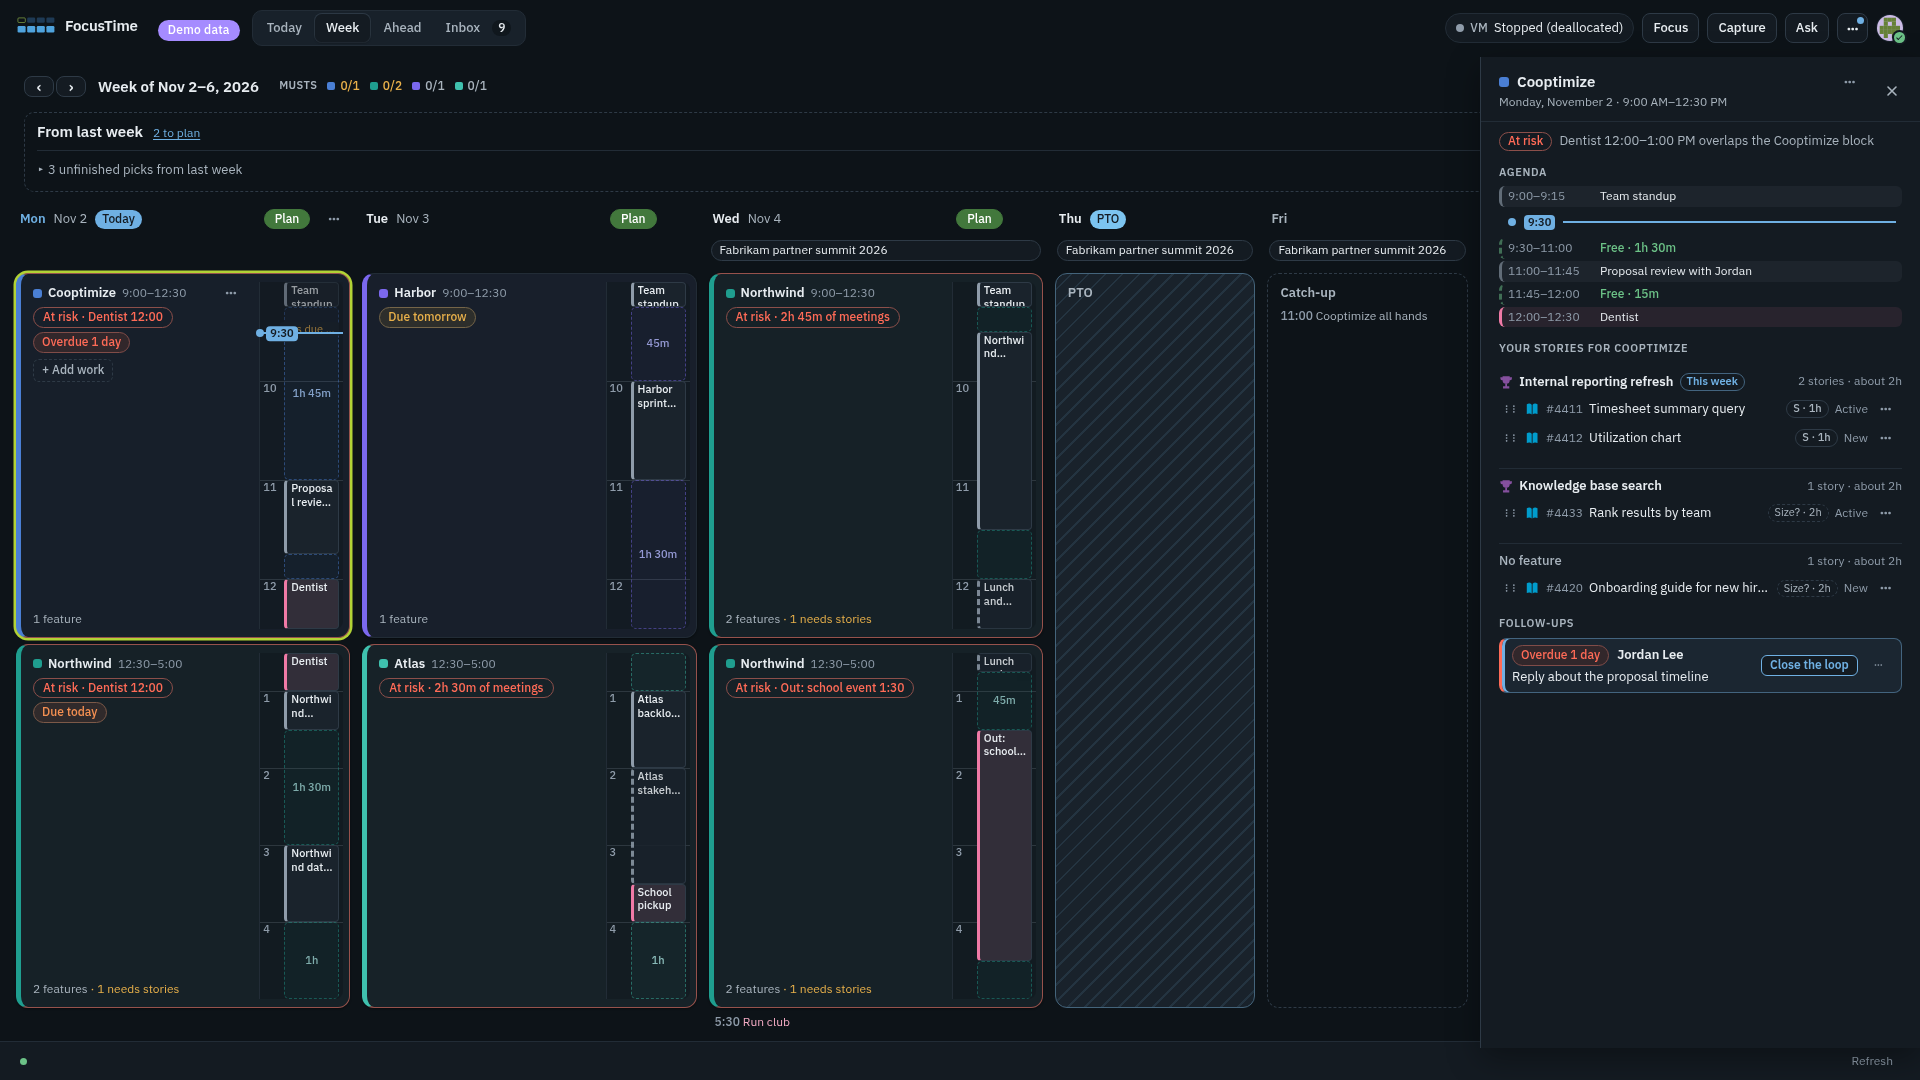
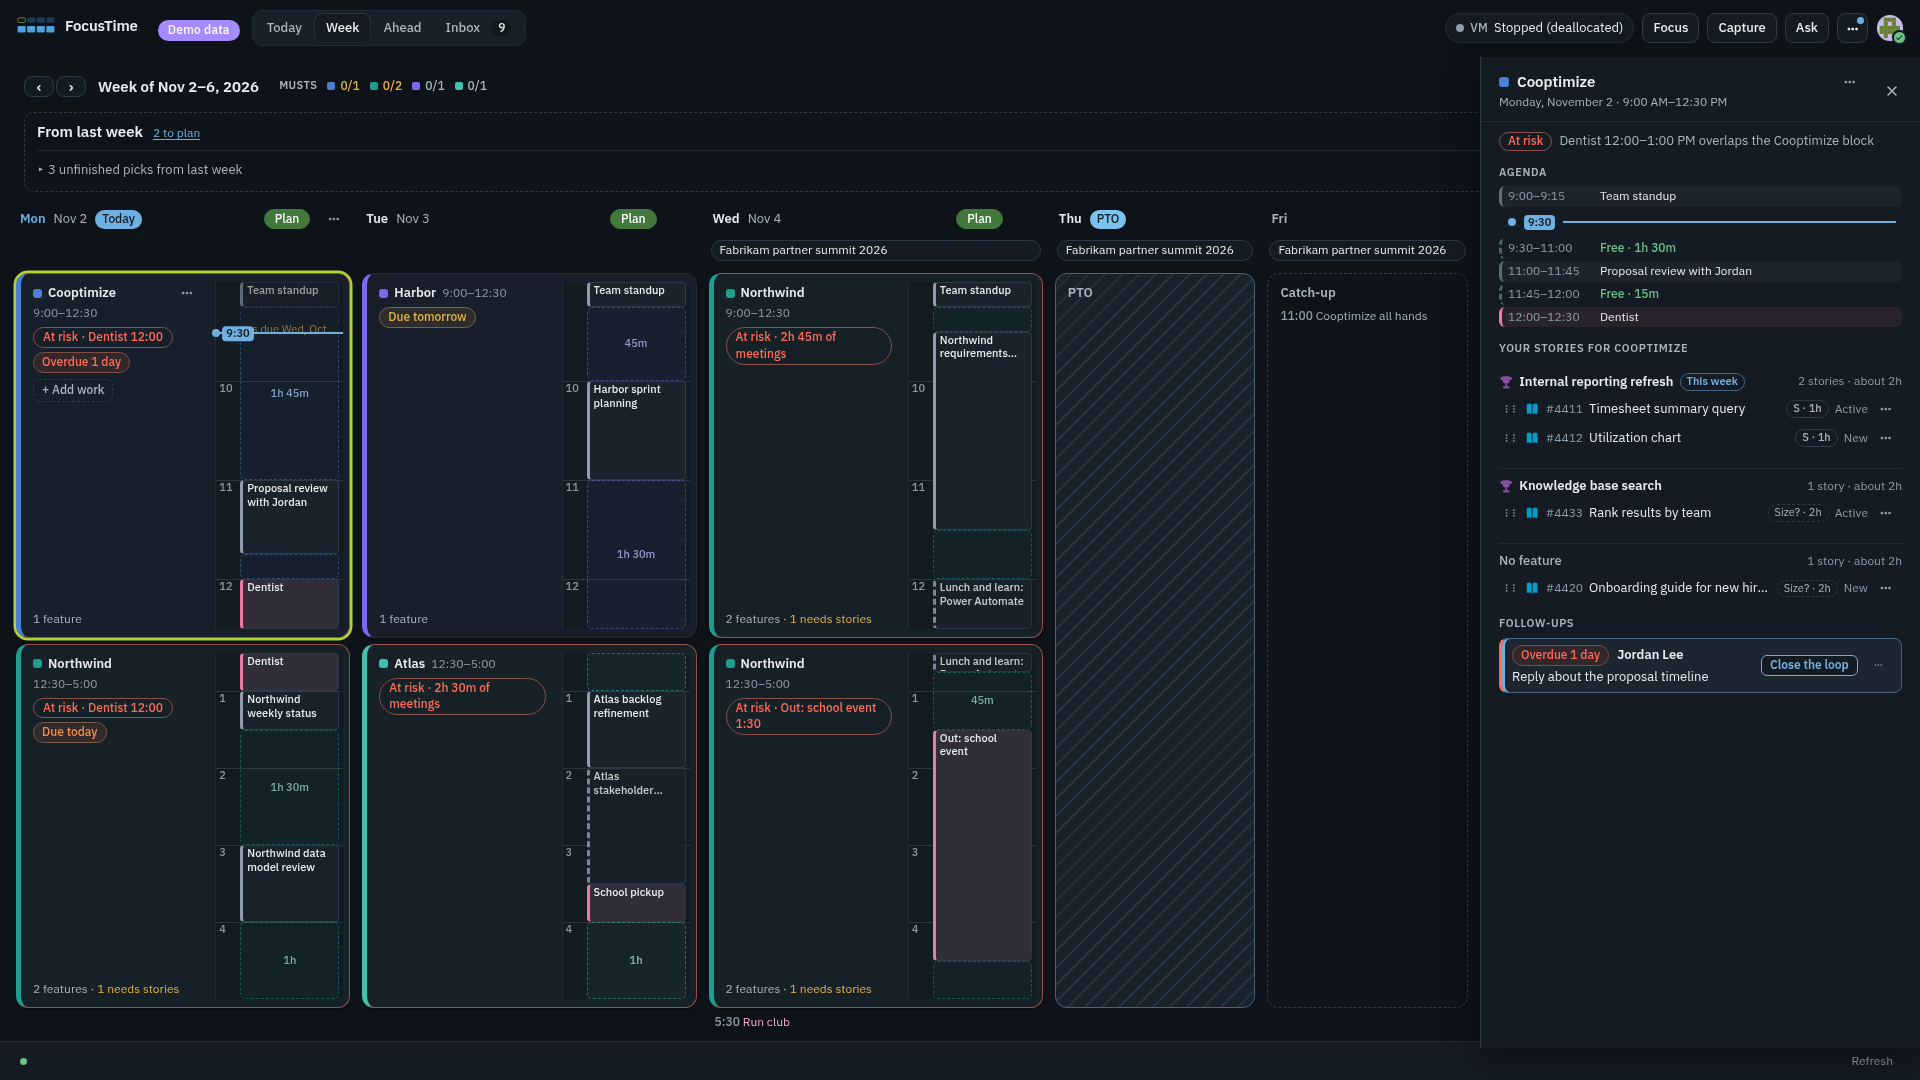
WK-1: Rail from 320 px, so 1440 with no panel keeps the rail with titles; the rail's width from the measured column; 1440 (and every rail) after screenshots
Claude-Session: https://claude.ai/code/session_01MZF2GqHMftfpmcAnk5DoqP

diff --git a/ui/weekfit.ts b/ui/weekfit.ts
@@ -1,8 +1,8 @@
 // WK-1: how Week's Board fits the space it has. One tier for the whole grid, chosen from the real width of a Mon–Thu
 // column (the grid's content box, after the detail panel's space and the gaps) divided by the text scale, so Larger
 // text reaches the smaller tiers sooner. Each card renders exactly its tier's element:
-// - rail   (≥ 330): the time rail with titles (186 px, 140 on a narrower card)
-// - ruler  (250 to 330): a slim ruler, hour ticks and event bars, no titles
+// - rail   (≥ 320): the time rail with titles (186 px, 140 on a narrower card)
+// - ruler  (250 to 320): a slim ruler, hour ticks and event bars, no titles
 // - strip  (170 to 250): no rail; a thin day strip under the card header (busy, free, the now tick)
 // - mini   (130 to 170): the strip, the header stacked, the status pill without its reason
 // When even mini doesn't fit with all five days open, the week folds: the selected day and its neighbours stay open
@@ -11,7 +11,7 @@
 export type Tier = "rail" | "ruler" | "strip" | "mini";
 
 /** The narrowest Mon–Thu column, in CSS px at Default text, for each tier. */
-export const TIER_MIN: Readonly<Record<Tier, number>> = { rail: 330, ruler: 250, strip: 170, mini: 130 };
+export const TIER_MIN: Readonly<Record<Tier, number>> = { rail: 320, ruler: 250, strip: 170, mini: 130 };
 
 /** A folded day's strip, in CSS px at Default text. */
 export const FOLD_PX = 44;
@@ -37,7 +37,11 @@ export type Fit = {
   col: number;
   /** grid-template-columns. */
   tracks: string;
+  /** The rail tier's rail width: what the column leaves after about 200 px of text (scaled), 140 to 186 px. */
+  railPx: number;
 };
+
+const railWidth = (col: number, scale: number) => Math.round(Math.min(186, Math.max(140, col - 200 * scale)));
 
 /**
  * @param contentPx the grid's content width (no padding)
@@ -52,7 +56,7 @@ export function weekFit({ contentPx, gapPx, scale = 1, shares, selected }: { con
   const all = free / Math.max(0.0001, sum(shares));
   const t = tierFor(all, scale);
   const track = (s: number) => `minmax(0, ${s}fr)`;
-  if (t !== "fold" || n <= 1) return { tier: t === "fold" ? "mini" : t, open: shares.map(() => true), col: all, tracks: shares.map(track).join(" ") };
+  if (t !== "fold" || n <= 1) return { tier: t === "fold" ? "mini" : t, open: shares.map(() => true), col: all, tracks: shares.map(track).join(" "), railPx: railWidth(all, scale) };
 
   // Fold: a window of FOLD_OPEN days around the selected one (kept inside the week), shrunk only while the open
   // columns are still under mini.
@@ -69,7 +73,7 @@ export function weekFit({ contentPx, gapPx, scale = 1, shares, selected }: { con
     if (tierFor(col, scale) !== "fold" || size === 1) break;
   }
   const tier = tierFor(col, scale);
-  return { tier: tier === "fold" ? "mini" : tier, open, col, tracks: shares.map((s, i) => (open[i] ? track(s) : `${Math.round(strip)}px`)).join(" ") };
+  return { tier: tier === "fold" ? "mini" : tier, open, col, tracks: shares.map((s, i) => (open[i] ? track(s) : `${Math.round(strip)}px`)).join(" "), railPx: railWidth(col, scale) };
 }
 
 /** A day's share of the week: working days 1, Friday, weekend days and PTO days 0.6, the day being planned 2.6. */

diff --git a/ui/styles.css b/ui/styles.css
@@ -2836,8 +2836,9 @@ button.att-chip { cursor: pointer; }
 .half .flex-list { font-size: var(--fs-2); }
 
 /* The time rail (U3, D383): the one home for meetings, personal events and timeboxes on a compact card. */
-/* WK-1: the rail tier's rail: 186 px, down to 140 on a narrower card (the text column keeps about 200 px, scaled). */
-.half.card.has-ruler { --ruler-w: clamp(140px, 100cqw - 200px * var(--text-scale), 186px); }
+/* WK-1: the rail tier's rail: 186 px, down to 140 on a narrower card (the text column keeps about 200 px, scaled),
+   set from the measured column on the grid (ui/weekfit.ts railPx). */
+.half.card.has-ruler { --ruler-w: var(--rail-w, 186px); }
 .ruler { top: 8px; bottom: 8px; }
 .ruler .r-hour span { left: 3px; top: 1px; font-size: var(--fs-1); }
 .ruler .r-lanes { position: absolute; top: 0; bottom: 0; left: 22px; right: 2px; }
@@ -3138,9 +3139,9 @@ button.pw-kids:hover, button.pw-kids:focus-visible { text-decoration: underline;
 .statusbar.quiet .status-chips { margin-right: auto; margin-left: 4px; }
 .status-chip { display: inline-block; min-width: 0; max-width: 60vw; padding: 1px 10px; border-radius: 99px; border: 1px solid var(--border); background: var(--raised); color: var(--text-muted); font-size: var(--fs-2); overflow: hidden; text-overflow: ellipsis; white-space: nowrap; }
 /* U5.1: a 12-character client name never truncates at 1920. The card's text column keeps at least 200 px and the rail
-   takes the rest (about 150 px on a 400 px card); the time range wraps onto a hidden second line before the name
-   shortens, and the hover ⋯ sits over the head's right end. At 3840 the hour timeline keeps the U3 widths. */
-.half.card.has-ruler { --ruler-w: clamp(96px, calc(100cqw - 250px), 186px); }
+   takes the rest; the hover ⋯ sits over the head's right end. At 3840 the hour timeline keeps the U3 widths. WK-1: the
+   rail's width comes from the measured column (--rail-w, ui/weekfit.ts; this rule's 100cqw read no container), and the
+   time range takes its own visible line. */
 .card-head { flex-wrap: wrap; align-content: flex-start; overflow: hidden; position: relative; padding-right: 22px; }
 .card-head > .swatch { align-self: center; }
 .card-head .card-client { flex: 0 1 auto; line-height: calc(20px * var(--text-scale)); }

diff --git a/e2e/wk1.test.ts b/e2e/wk1.test.ts
@@ -124,7 +124,8 @@ describe.skipIf(!CHROMIUM)("WK-1: Week fits every width from 1024", () => {
   // Each tier, how to reach it on the demo week (Thursday is PTO, so Thursday and Friday take the light share).
   const TIERS: { tier: string; width: number; height: number; panel: boolean; big: boolean; fold?: boolean }[] = [
     { tier: "rail", width: 1920, height: 1080, panel: false, big: false },
-    { tier: "ruler", width: 1440, height: 900, panel: false, big: false },
+    { tier: "rail", width: 1440, height: 900, panel: false, big: false },
+    { tier: "ruler", width: 1366, height: 768, panel: false, big: false },
     { tier: "strip", width: 1024, height: 768, panel: false, big: false },
     { tier: "mini", width: 1280, height: 800, panel: true, big: true },
     { tier: "mini", width: 1024, height: 768, panel: true, big: true, fold: true },
@@ -159,6 +160,8 @@ describe.skipIf(!CHROMIUM)("WK-1: Week fits every width from 1024", () => {
         const am = mon.locator(MON_AM);
         const expectRail = t.tier === "rail" ? ".ruler:not(.slim)" : t.tier === "ruler" ? ".ruler.slim" : ".day-strip";
         await expect(am.locator(expectRail).count()).resolves.toBe(1);
+        // The rail tier's rail is 140 to 186 px wide (its titles have room), minus its 12 px of inset.
+        if (t.tier === "rail") await expect(am.locator(".ruler").evaluate((r) => r.getBoundingClientRect().width)).resolves.toBeGreaterThanOrEqual(127);
         if (t.tier === "strip" || t.tier === "mini") await expect(am.locator(".day-strip .now-tick").count()).resolves.toBe(1);
         if (t.tier === "mini") await expect(am.locator(".pill-reason").isVisible()).resolves.toBe(false);
         // The block's time is always visible.

diff --git a/ui/weekfit.test.ts b/ui/weekfit.test.ts
@@ -24,8 +24,8 @@ describe("tierFor", () => {
     expect(tierFor(TIER_MIN.mini - 1)).toBe("fold");
   });
   it("scales the thresholds with the text size", () => {
-    expect(tierFor(330, LARGER)).toBe("ruler");
-    expect(tierFor(330 * LARGER, LARGER)).toBe("rail");
+    expect(tierFor(400, LARGER)).toBe("ruler");
+    expect(tierFor(320 * LARGER, LARGER)).toBe("rail");
   });
 });
 
@@ -39,7 +39,9 @@ describe("weekFit", () => {
   });
   it("gives each width its tier", () => {
     expect(fit(1920, false).tier).toBe("rail");
-    expect(fit(1440, false).tier).toBe("ruler");
+    // 1440 with no panel keeps the rail with titles (a 324 px column).
+    expect(fit(1440, false, PTO_THU).tier).toBe("rail");
+    expect(fit(1366, false).tier).toBe("ruler");
     expect(fit(1024, false).tier).toBe("strip");
     expect(fit(1366, true).tier).toBe("strip");
     expect(fit(1280, true, PLAIN, LARGER).tier).toBe("mini");
@@ -60,6 +62,10 @@ describe("weekFit", () => {
     expect(f.open.filter(Boolean).length).toBeLessThan(3);
     expect(f.open[1]).toBe(true);
     expect(f.col / LARGER).toBeGreaterThanOrEqual(TIER_MIN.mini);
+  });
+  it("gives the rail what the column leaves after the text, 140 to 186 px", () => {
+    expect(fit(1920, false).railPx).toBe(186);
+    expect(fit(1440, false, PTO_THU).railPx).toBe(140);
   });
   it("never makes Friday wider than a working day", () => {
     for (const w of [1920, 1366, 1024]) {

diff --git a/ui/tokens.test.ts b/ui/tokens.test.ts
@@ -39,7 +39,7 @@ describe("design tokens", () => {
   it("every token a component uses is defined in the default root", () => {
     const local = declared(components); // element-level, e.g. --c (the block's client color)
     // Set from script: a block's client colors (--c, --c2, inline styles; Plan ahead's label and timeline widths; Ahead's row depth, AH-3; the now tick's place on the day strip, WK-1) and the fallbacks they name (ui/labels.ts).
-    const fromScript = (v: string) => v === "--c" || v === "--c2" || v === "--label-w" || v === "--tl-w" || v === "--ah-depth" || v === "--at" || /^--client-fallback-\d$/.test(v) || /^--client-[a-z]+$/.test(v);
+    const fromScript = (v: string) => v === "--c" || v === "--c2" || v === "--label-w" || v === "--tl-w" || v === "--ah-depth" || v === "--at" || v === "--rail-w" || /^--client-fallback-\d$/.test(v) || /^--client-[a-z]+$/.test(v);
     const missing = [...used(components)].filter((v) => !declared(root).has(v) && !local.has(v) && !fromScript(v));
     expect(missing).toEqual([]);
   });

diff --git a/ui/WeekGrid.tsx b/ui/WeekGrid.tsx
@@ -195,7 +195,7 @@ function Grid({ week, colors, minFocusWindow, today, now, selection, cellRefs, o
       <main
         ref={ref}
         className={`grid ${layout} ${planDay ? "planning" : ""} ${hasEve ? "has-eve" : ""}${panelOpen ? " with-panel" : ""}${layout === "medium" ? ` tier-${fit?.tier ?? "rail"}` : ""}${fit && fit.open.some((o) => !o) ? " folded" : ""}`}
-        style={{ gridTemplateColumns: tracks }}
+        style={{ gridTemplateColumns: tracks, ...(fit ? { "--rail-w": `${fit.railPx}px` } : {}) } as CSSProperties}
         role="group"
         aria-label="Week grid. Arrow keys move between half-days, Enter opens details."
       >

diff --git a/docs/decisions.md b/docs/decisions.md
@@ -895,7 +895,7 @@ Numbered at merge.
 
 | # | Status | Decision |
 |---|---|---|
-| new | Done | WK-1 (amends D383, D404 and UI-8's panel entry): Week's Board picks one tier for the whole grid from the real width of a Mon–Thu column (the grid's content box after the detail panel's space and the gaps, measured with a ResizeObserver and again on a Text size change) divided by the text scale: Rail ≥ 330 px (the rail with titles, 186 px down to 140), Ruler 250 to 330 (a slim 60 px ruler: hour ticks and event bars, titles on hover and in the panel), Strip 170 to 250 (no rail; one thin day strip under the card header: off hours, free time, events, today's now tick), Mini 130 to 170 (the strip; the header stacked, client up to two lines then the time; the status pill reads "At risk" alone, its reason in the title and the panel; no size chips; no date or Today pill in the day header). The tier is chosen in JS (`ui/weekfit.ts`) and the card renders exactly that tier's element (`railFor` in `ui/layout.ts`); the card container queries at 380, 300 and 230 px and the dead 76 and 46 px rules are removed. Why: a CSS-hidden rail left the card with neither the rail's now line nor the no-rail one (the now line vanished with the panel open under 1600). |
+| new | Done | WK-1 (amends D383, D404 and UI-8's panel entry): Week's Board picks one tier for the whole grid from the real width of a Mon–Thu column (the grid's content box after the detail panel's space and the gaps, measured with a ResizeObserver and again on a Text size change) divided by the text scale: Rail ≥ 320 px (the rail with titles, 186 px down to 140), Ruler 250 to 320 (a slim 60 px ruler: hour ticks and event bars, titles on hover and in the panel), Strip 170 to 250 (no rail; one thin day strip under the card header: off hours, free time, events, today's now tick), Mini 130 to 170 (the strip; the header stacked, client up to two lines then the time; the status pill reads "At risk" alone, its reason in the title and the panel; no size chips; no date or Today pill in the day header). The tier is chosen in JS (`ui/weekfit.ts`) and the card renders exactly that tier's element (`railFor` in `ui/layout.ts`); the card container queries at 380, 300 and 230 px and the dead 76 and 46 px rules are removed. Rail starts at 320 rather than the 330 first proposed, so a 1440 px window with no panel (324 px columns) keeps the rail with titles. The rail's width is set from the measured column (`--rail-w`: the column less about 200 px of text, scaled, 140 to 186 px); U5.1's `clamp(96px, 100cqw - 250px, 186px)` is removed, since a card can't query its own width and the rule left the rail at about 84 px. Why the tier is chosen in JS: a CSS-hidden rail left the card with neither the rail's now line nor the no-rail one (the now line vanished with the panel open under 1600). |
 | new | Done | WK-1: when even Mini doesn't fit with all five days open, the week folds: the selected day (or the day being planned) and its neighbours stay open as normal columns, kept inside the week at its ends, and the other days become 44 px strips (scaled with text): weekday and date, the AM and PM halves in the client's colour, each its own drop target with the usual fit tip and highlighted under a dragged story, the at-risk (or watch) dot, PTO hatched, Catch-up dashed, and today's now line. A click on a strip, or the arrow keys moving the selection, opens that day and moves the window. Fewer than three days stay open only when three would still be under Mini (1024 with the panel at Larger text). The fit tip on a strip opens towards the open days, so it never runs past the week's edge. |
 | new | Done | WK-1: the whole week shows from 1024 px (the medium layout's floor was 1134); 600 to 1023 keeps the one-day layout and the phone stays under 600 px, both unchanged. |
 | new | Done | WK-1: a PTO day takes Friday's light share (0.6), and the light share has no pixel floor, so Friday (or a PTO day) is never wider than a working day; the 190 px Friday minimum is gone. |

diff --git a/docs/architecture.md b/docs/architecture.md
@@ -361,7 +361,7 @@ One job reads each registered client chat for everyone; Asks are now Requests. D
 ## UI-8: the Nov 5 bug round (outside Inbox)
 
 - **Friday with the panel open.** `WeekGrid`'s `panelOpen` (from `App.tsx`: Week's detail panel is open) adds `with-panel` to `.grid`, which pads the panel's width (`--dp-w` on `:root`, 440 px, 560 px from 3000 px; `.detail-panel` uses it too). Under 1600 px the day headers drop the date and Today pill while it's open (WK-1 replaced the card container queries with tiers). `useDropTarget` in `ui/WeekStories.tsx` handles dragenter like dragover (`enterOrOver`).
-- **Week at every width (WK-1).** `ui/weekfit.ts` (pure): `tierFor` and `weekFit` turn the grid's content width, its gap, the text scale and each day's share (1, 0.6 for Friday, weekend and PTO days, 2.6 for the day being planned) into the tier (Rail ≥ 330, Ruler 250 to 330, Strip 170 to 250, Mini 130 to 170, per Mon–Thu column, × text scale), which days stay open, and `grid-template-columns`. `WeekGrid`'s `useGridBox` measures `main.grid` (ResizeObserver, Text size changes) in the medium layout only; `TierCtx` hands the tier to each card, and `railFor` (`ui/layout.ts`) picks its element: `Ruler`, `Ruler slim`, or `DayStrip`. Folded days are `FoldedDay` and `FoldHalf` (drop targets through `useDropTarget`); `NowTick` (`ui/NowLine.tsx`) is the strip's now mark. CSS: the `.grid.tier-*` and `.day.folded` rules at the end of `styles.css`. Layouts by window: wide ≥ 3002, medium (the whole week) 1024 to 3001, one day 600 to 1023, phone < 600 (`ui/viewport.ts`). Tests: `ui/weekfit.test.ts`, `ui/step151.test.ts`, `e2e/wk1.test.ts`.
+- **Week at every width (WK-1).** `ui/weekfit.ts` (pure): `tierFor` and `weekFit` turn the grid's content width, its gap, the text scale and each day's share (1, 0.6 for Friday, weekend and PTO days, 2.6 for the day being planned) into the tier (Rail ≥ 320, Ruler 250 to 320, Strip 170 to 250, Mini 130 to 170, per Mon–Thu column, × text scale), which days stay open, and `grid-template-columns`. `WeekGrid`'s `useGridBox` measures `main.grid` (ResizeObserver, Text size changes) in the medium layout only; `TierCtx` hands the tier to each card, and `railFor` (`ui/layout.ts`) picks its element: `Ruler`, `Ruler slim`, or `DayStrip`. Folded days are `FoldedDay` and `FoldHalf` (drop targets through `useDropTarget`); `NowTick` (`ui/NowLine.tsx`) is the strip's now mark. CSS: the `.grid.tier-*` and `.day.folded` rules at the end of `styles.css`. Layouts by window: wide ≥ 3002, medium (the whole week) 1024 to 3001, one day 600 to 1023, phone < 600 (`ui/viewport.ts`). Tests: `ui/weekfit.test.ts`, `ui/step151.test.ts`, `e2e/wk1.test.ts`.
 - **Dialog headers.** `.command-menu` is `overflow: clip` with its head and foot `flex: none` and the rest scrolling. `ui/Feedback.tsx`: ‹ Back (`menu-back`) in the header on the preview and error, Esc closes. The Guide's `.guide-top .guide-wrap` doesn't wrap; `.guide-chapters` wraps inside.
 - **Feedback audit.** `FeedbackService.target()`; `feedback.send` logs a `feedback` op (`FEEDBACK_LOG_KEY` in `plan/devopswrite.ts`) with `logDevopsWrite` before the create and settles it after; `devops.log` lists it without Undo or Retry, `devops.retry` and the undo preview refuse it, `undoTops` skips it.
 - **Break down in DevOps health.** `ReadyRow` in `ui/PlanWeek.tsx` renders `BreakDownButton` on "Feature with no stories".

diff --git a/docs/design/style-guide.md b/docs/design/style-guide.md
@@ -169,7 +169,7 @@ Uppercase is for section labels only, never for tags, chips or pills. Headings, 
 
 - *3840x1080 (wide layout):* half-day cards show the rail (client, stats, picks, work items, badge) on the left third and the hour timeline on the right. Plan the day takes the planned day's whole widened track. Room for the Now strip and every top-bar item on one line.
 - *1920x1080 (medium layout):* compact cards. The top bar hides "coming soon" tabs and Settings text behind a "More" menu when space runs out, never by wrapping the week title. Work item lists collapse to a count when a day is committed.
-- *1024 to 1920 (WK-1, Week's Board):* one tier for the grid from a Mon–Thu column's width ÷ text scale: Rail ≥ 330 (the rail with titles), Ruler 250 to 330 (slim ruler, no titles), Strip 170 to 250 (a thin day strip under the header), Mini 130 to 170 (header stacked, "At risk" without its reason). What gives first: rail titles, then the rail (rail, ruler, strip), the day header's date and Today pill, PTO and Catch-up on the light share, the panel (clamp(360px, 30vw, 440px) under 1440), Mini, then the fold (the selected day and its neighbours open, the other days as 44 px strips that still take drops). Titles wrap to two lines before they're cut; a block's time always shows; the page never scrolls sideways. Phone under 600; one day at a time from 600 to 1023.
+- *1024 to 1920 (WK-1, Week's Board):* one tier for the grid from a Mon–Thu column's width ÷ text scale: Rail ≥ 320 (the rail with titles), Ruler 250 to 320 (slim ruler, no titles), Strip 170 to 250 (a thin day strip under the header), Mini 130 to 170 (header stacked, "At risk" without its reason). What gives first: rail titles, then the rail (rail, ruler, strip), the day header's date and Today pill, PTO and Catch-up on the light share, the panel (clamp(360px, 30vw, 440px) under 1440), Mini, then the fold (the selected day and its neighbours open, the other days as 44 px strips that still take drops). Titles wrap to two lines before they're cut; a block's time always shows; the page never scrolls sideways. Phone under 600; one day at a time from 600 to 1023.
 - Both: the status bar is one line when everything is live; failures add one line per cause, never per source.
 
 ## 4.1 Brand (step 17.5)
